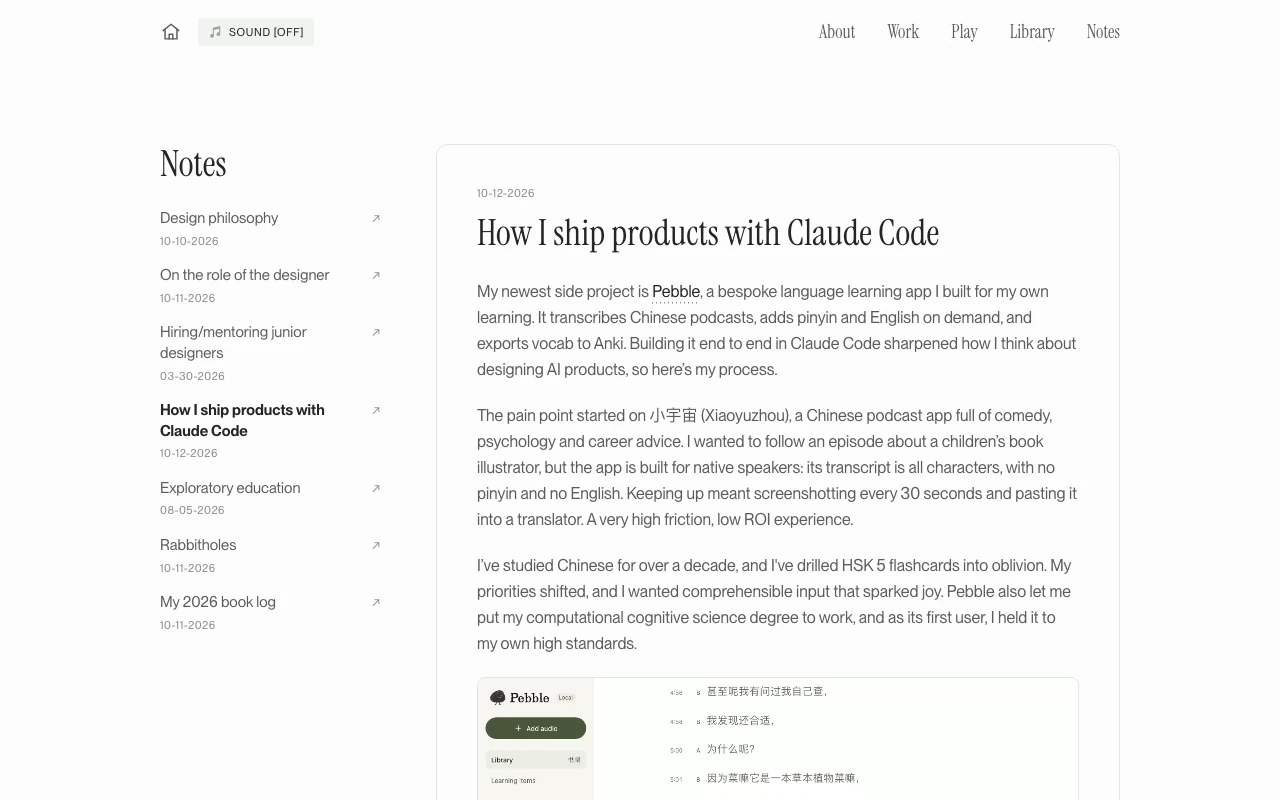
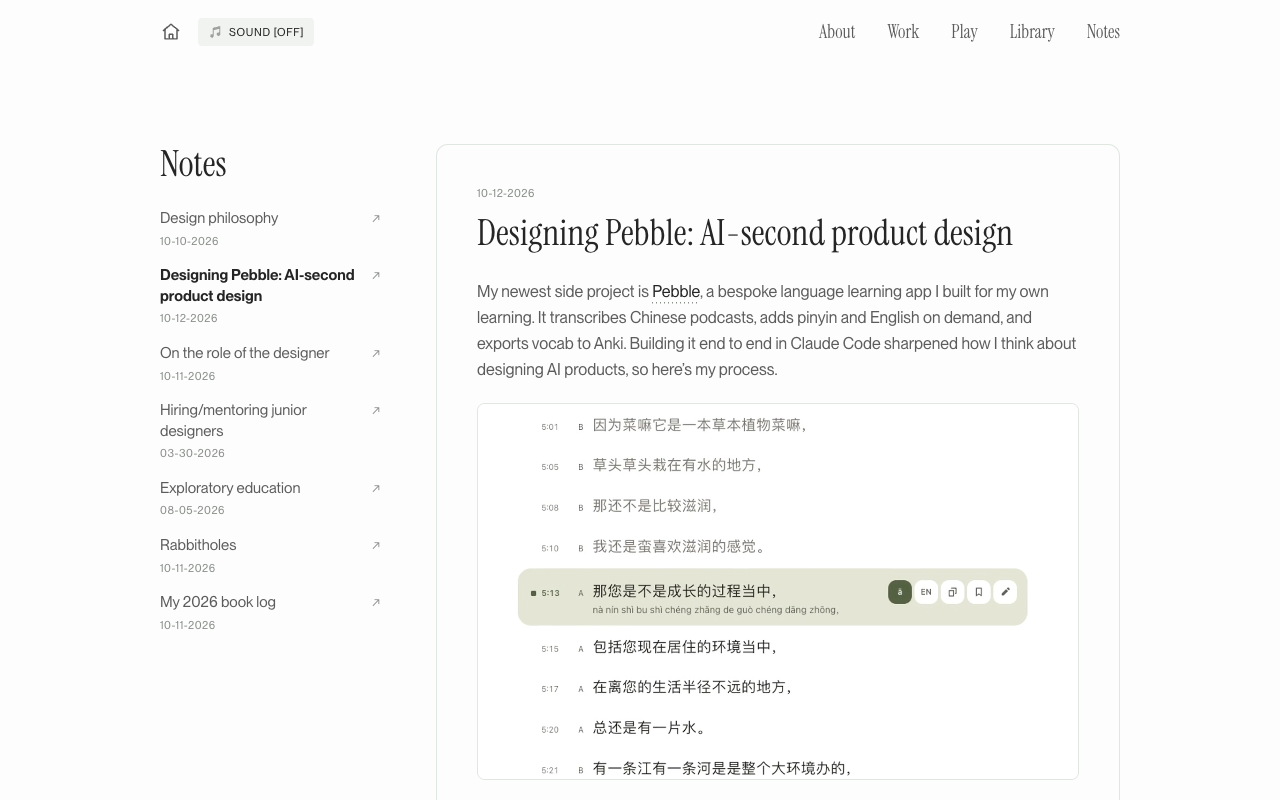
Reorder nav by relevance; edge cases in the Pebble note
- Header nav: Work, About, Notes, Play, Library
- Footer links: About, Notes, Play, Library
- Pebble note: "Designing for edge cases" section with the progress bar before/after
- Refresh the Play tile's "Learn how I made it" preview

diff --git a/src/content/notes.ts b/src/content/notes.ts
@@ -63,29 +63,30 @@ export const notes: Note[] = [
       "Trust is the limiting factor. Numerous [Nielsen Norman Group studies](https://www.nngroup.com/articles/designing-ai-study-guide/) show that advertising AI features make people expect upsells, hallucinations, and credits that run out fast. That puts the burden on design. Our job is to help people reach a good result in fewer prompts, so they succeed before they hit a credit limit and the company isn’t paying for every retry.",
       "## Designing for failure modes",
       "Hallucination is the default failure mode of AI. We can’t design it away, so I treat it as a constraint and over-index on surface area for trust. In Pebble, any line can be corrected by hand and reverted, and a line can be marked as “May need review” to be transparent about the model's limitations.",
-      "The hardest failure mode was the loading screen. Transcribing episodes that last over an hour can take a while, and a loading spinner leaves people wondering whether anything is happening. People want to see work in motion to trust the process and catch errors early.",
-      "My first few iterations of the loading screen filled the bar only from real progress, one tick per finished section. Then I uploaded a 55-second clip. It was a single section, so the bar sat empty for 20 seconds and jumped straight to done, which offered an unsatisfying, underwhelming waiting experience.",
-      "Now the bar eases forward on an estimate within each section and holds short of the end until the work actually finishes. Real-time progress still drives chain-of-thought disclosure, but now a progress estimate fills the silence between updates, providing system feedback that keeps the user in-the-loop. I also hid the chain-of-thought disclosure for audio less than 4-minutes-long because it added more visual clutter for videos that don't require long waiting times.",
+      "Waiting with uncertainty was the most critical failure mode I designed for. Transcribing episodes that last over an hour can take a while, and a loading spinner leaves people wondering whether anything is happening. People want to see work in motion to trust the process and catch errors early.",
+      "## Designing for edge cases",
+      "My first few iterations filled the progress bar only from real-time updates. During audio processing, Pebble splits the audio into sections, and the progress bar moves forward each time a section finishes. But that broke down for non-podcast audio, like music or short-form content. A 55-second Douyin video I uploaded was a single section, so the bar sat empty for 20 seconds and jumped straight to done. This offered an underwhelming waiting experience.",
+      "In the latest iteration, the progress bar eases forward on an estimate while each section processes and holds short of the end until the work actually finishes. Real-time updates still drive the bar, but now an estimate fills the silence between updates, providing system feedback that keeps the user in the loop. I also hide the steps for audio under 4 minutes since those clips finish in seconds and only add visual clutter.",
       "## How I build with Claude Code",
       "I built Pebble end to end in Claude Code. I wanted to start learning from podcasts as soon as possible, and an MVP that covered the core jobs to be done (a non-negotiable) would deliver value right away. The last 20%, the taste layer, could wait for later versions. My setup is the usual Claude Code playbook:",
       "- Plan mode before big changes, so we agree on the approach before any code is written\n- A CLAUDE.md that works like a product spec with guardrails, establishing what Pebble must never do, and which actions need my sign-off\n- A design system in Claude Design that Claude checks for exact sizes and tokens before building UI\n- Skills for repeatable work, like commits and fixing failing tests",
       "Prompting is a refinement journey that I try to optimize. I ask Claude to interview me before it starts, so it captures my vision and doesn’t waste tokens on guesses. I also use sliders to fine-tune UI details to take control over the taste layer.",
-      "AI can’t one-shot a design and probably never will, so I ask Claude to generate three visual directions. There I can play with the brand direction, micro-interactions, and feel before committing to one—or combining the best parts of each—to refine.",
+      "AI can’t one-shot a design and probably never will, so I ask Claude to generate three visual directions. This way I can play with the brand direction, micro-interactions, and feel before committing to one—or combining the best parts of each—to refine.",
       "## Design agents",
       "Taste is something you cultivate a sensitivity for through tacit knowledge. How might we leverage AI tools to reflect that in our work? After reading [Claire Taylor’s essay](https://claireytee.substack.com/p/thinking-is-still-the-work), I started keeping a taste journal in a skill file and adopted a new agent:",
       "-  **Taste maker:** gathers my recent saves from Substack, Instagram, and X, asks what they reveal about my taste, and turns the answers into heuristics for my design.md.",
       "I still prefer to rely on my own knowledge of best practices and heuristics for design critiques, as well as user testing. Outsourcing that to an agent works for evaluating visual consistency across a system, but now that AI can generate design (even if it can't one-shot it), critical thinking, process, and authority is kind of the whole point of hiring a designer.",
       "## Next steps?",
-      "The [live demo](https://learnpebble.vercel.app) runs on sample episodes and Luvvoice AI voice actors, but I run a local-first version where I upload my own audio. Pebble has saved me an extraordinary amount of time. I translate lines while I listen instead of leaving the app and opening new tabs, so I stay immersed in the episode. If you’d like to use it too, let me know and I’ll build it for public use!! :D",
+      "The [live demo](https://learnpebble.vercel.app) runs on sample episodes and Luvvoice AI voice actors, but I run a local-first version where I upload my own audio. Pebble has saved me an extraordinary amount of time. I translate and learn while listening instead of leaving the app and opening new tabs, so I stay immersed in the episode. Plus, a whole new world of perspectives has opened up to me via Chinese podcasts, which is priceless. If you’d like to use it too, let me know and I’ll build it for public use!!",
     ],
     // Recorded from the local version of Pebble.
     figures: [
       { after: 1, src: "/notes/pebble/cai-gao-sticker.webp", alt: "Illustrator Cai Gao smiling, holding flowers and her picture book 出生的故事", width: 192, height: 243, sticker: { pad: 10 }, credit: { label: "Hunan Provincial Government", href: "http://www.enghunan.gov.cn/hneng/News/Localnews/202604/t20260414_33954428.html" } },
       { after: 1, src: "/notes/pebble/cai-gao-baoer.webp", alt: "Cai Gao in her garden beside the cover of her picture book Baoer, winner of the BIB Golden Apple Award", width: 1180, height: 793, credit: { label: "Publishers Weekly", href: "https://www.publishersweekly.com/pw/by-topic/specials/promotional/article/98654-pw-studio-spotlight-on-cai-gao-innovative-storytelling-for-children.html" } },
       { after: 0, video: "/notes/pebble/listening.mp4", poster: "/notes/pebble/listening-poster.webp", alt: "Pebble playing an episode, revealing pinyin and English line by line" },
-      { after: 9, video: "/notes/pebble/processing-before.mp4", poster: "/notes/pebble/processing-before-poster.webp", alt: "Pebble’s first progress screen: the bar sits empty for the whole of a one-section clip, then jumps to Transcript ready" },
-      { after: 10, video: "/notes/pebble/processing-after.mp4", poster: "/notes/pebble/processing-after-poster.webp", alt: "Pebble’s progress screen now: the bar eases forward while the clip processes, then fills when the transcript is ready" },
-      { after: 15, src: "/notes/pebble/directions.webp", alt: "Three visual directions for Pebble, Scholarly, Editorial and Wabi-sabi, combined into a fourth", width: 1792, height: 1344 },
+      { after: 10, video: "/notes/pebble/processing-before.mp4", poster: "/notes/pebble/processing-before-poster.webp", alt: "Pebble’s first progress screen: the bar sits empty for the whole of a one-section clip, then jumps to Transcript ready" },
+      { after: 11, video: "/notes/pebble/processing-after.mp4", poster: "/notes/pebble/processing-after-poster.webp", alt: "Pebble’s progress screen now: the bar eases forward while the clip processes, then fills when the transcript is ready" },
+      { after: 16, src: "/notes/pebble/directions.webp", alt: "Three visual directions for Pebble, Scholarly, Editorial and Wabi-sabi, combined into a fourth", width: 1792, height: 1344 },
     ],
   },
   {

diff --git a/src/content/site.ts b/src/content/site.ts
@@ -160,12 +160,14 @@ export const recommendations: Record<
 };
 
 // Resume and "Let's talk" live in the footer and the About links row.
+// Ordered by relevance to people in tech and recruiting: Work first (the first item read, and
+// the closest to the cursor in a right-aligned nav), then About, Notes, Play, Library.
 export const nav: { label: string; href: string; external?: boolean }[] = [
-  { label: "About", href: "/about" },
   { label: "Work", href: "/#work" },
+  { label: "About", href: "/about" },
+  { label: "Notes", href: "/notes" },
   { label: "Play", href: "/play" },
   { label: "Library", href: "/library" },
-  { label: "Notes", href: "/notes" },
 ];
 
 export const playPage = {

diff --git a/src/components/layout/Footer.tsx b/src/components/layout/Footer.tsx
@@ -10,9 +10,11 @@ import "./footer.css";
 /** NYC, for the weather line. */
 const NYC = { lat: 40.7128, lon: -74.006 };
 
+// The header's order without Work (the homepage is one click away via the header's home icon); still four
+// links, so the column keeps its measured balance against the weather line.
 const navLinks = [
   { label: "About", href: "/about" },
-  { label: "Work", href: "/#work" },
+  { label: "Notes", href: "/notes" },
   { label: "Play", href: "/play" },
   { label: "Library", href: "/library" },
 ];

diff --git a/CLAUDE.md b/CLAUDE.md
@@ -9,6 +9,7 @@ Run `node scripts/optimize-media.mjs --write` after adding images/videos: it con
 Running log of notable work done with Claude Code, newest first. Keep entries to a few bullets — this is a changelog, not a task tracker.
 
 ### 2026-10-12
+- Nav reordered by relevance to people in tech/recruiting: Work, About, Notes, Play, Library (Work first: read first, and closest to the cursor in the right-aligned group). Footer links are now About, Notes, Play, Library (Work dropped, Notes added; still four, so its measured balance holds). The Play tile's "Learn how I made it" preview (`public/play/previews/shipping-with-claude-code.webp`) re-captured with the note's new title and intro.
 - Cai Gao sticker in the Pebble note (picked A "Margin note" from `/lab/sticker`, now removed with `StickerLab` / `sticker-lab.css`): `StickerFigure` (`src/components/notes/`, styles `.note-sticker*` in `globals.css`). She says hello with a small wiggle only once she's fully on screen (IntersectionObserver ≥0.98, 350ms dwell), not on load; a vermilion "say hi 你好" (Caveat + Long Cang via `next/font/google`) stays under her with a hand-drawn arrow that draws in with the hello. Hover or tap: lift + wobble while flat doodles (`storybookDoodles.tsx`, our own shapes, folk gouache palette) bloom in a symmetric halo: 7 motifs on one ellipse at 30° steps, mirrored pairs of equal weight with colours crossing diagonally, blooming top-down in one wave; the bird hops. Her row cell sits above the neighbouring photo so doodles can overlap its edge. Image rows are top-aligned and sized by visible aspect: `sticker: { pad }` (the file's transparent margin) hangs outside her box via negative margins (`display: flow-root` stops them collapsing), so her edges meet the photo's top and bottom; 42px under her holds the note. Reduced motion: no wiggle/wobble, doodles just fade.
 - Pebble note ("Designing Pebble: AI-second product design", slug still `shipping-with-claude-code`, now 2nd in `noteOrder`): Cai Gao row after paragraph 1: a die-cut sticker cut out of the enghunan.gov.cn photo with macOS Vision (`VNGenerateForegroundInstanceMaskRequest`), white border baked in, tilted −2°, lifts and wobbles on hover (`.note-sticker`), beside the Publishers Weekly garden/Baoer image. `NoteBody` now puts 2+ images after one paragraph in a row at a shared height (flex by aspect ratio) and shows image `credit`s in one small line; image figures take `sticker`. Hans Christian Andersen Award links to IBBY.
 - Pebble note progress before/after: `processing-before.mp4` (the original recording's progress screen, cropped 928×580 at 300,80 to title + card, from 20.6s so the empty bar shows ~3s before the jump to Transcript ready, 1.25×, ~6s) under "My first few iterations…", and `processing-after.mp4` (today's 2× capture rendered from 6.3s with the same framing) under the new "Now the bar eases forward…" paragraph. The full `processing.mp4` is no longer placed in the note (its "Failures are designed too" paragraph was cut); the old full recordings are kept as `*-old.mp4` in `media-originals/notes/pebble/`.
